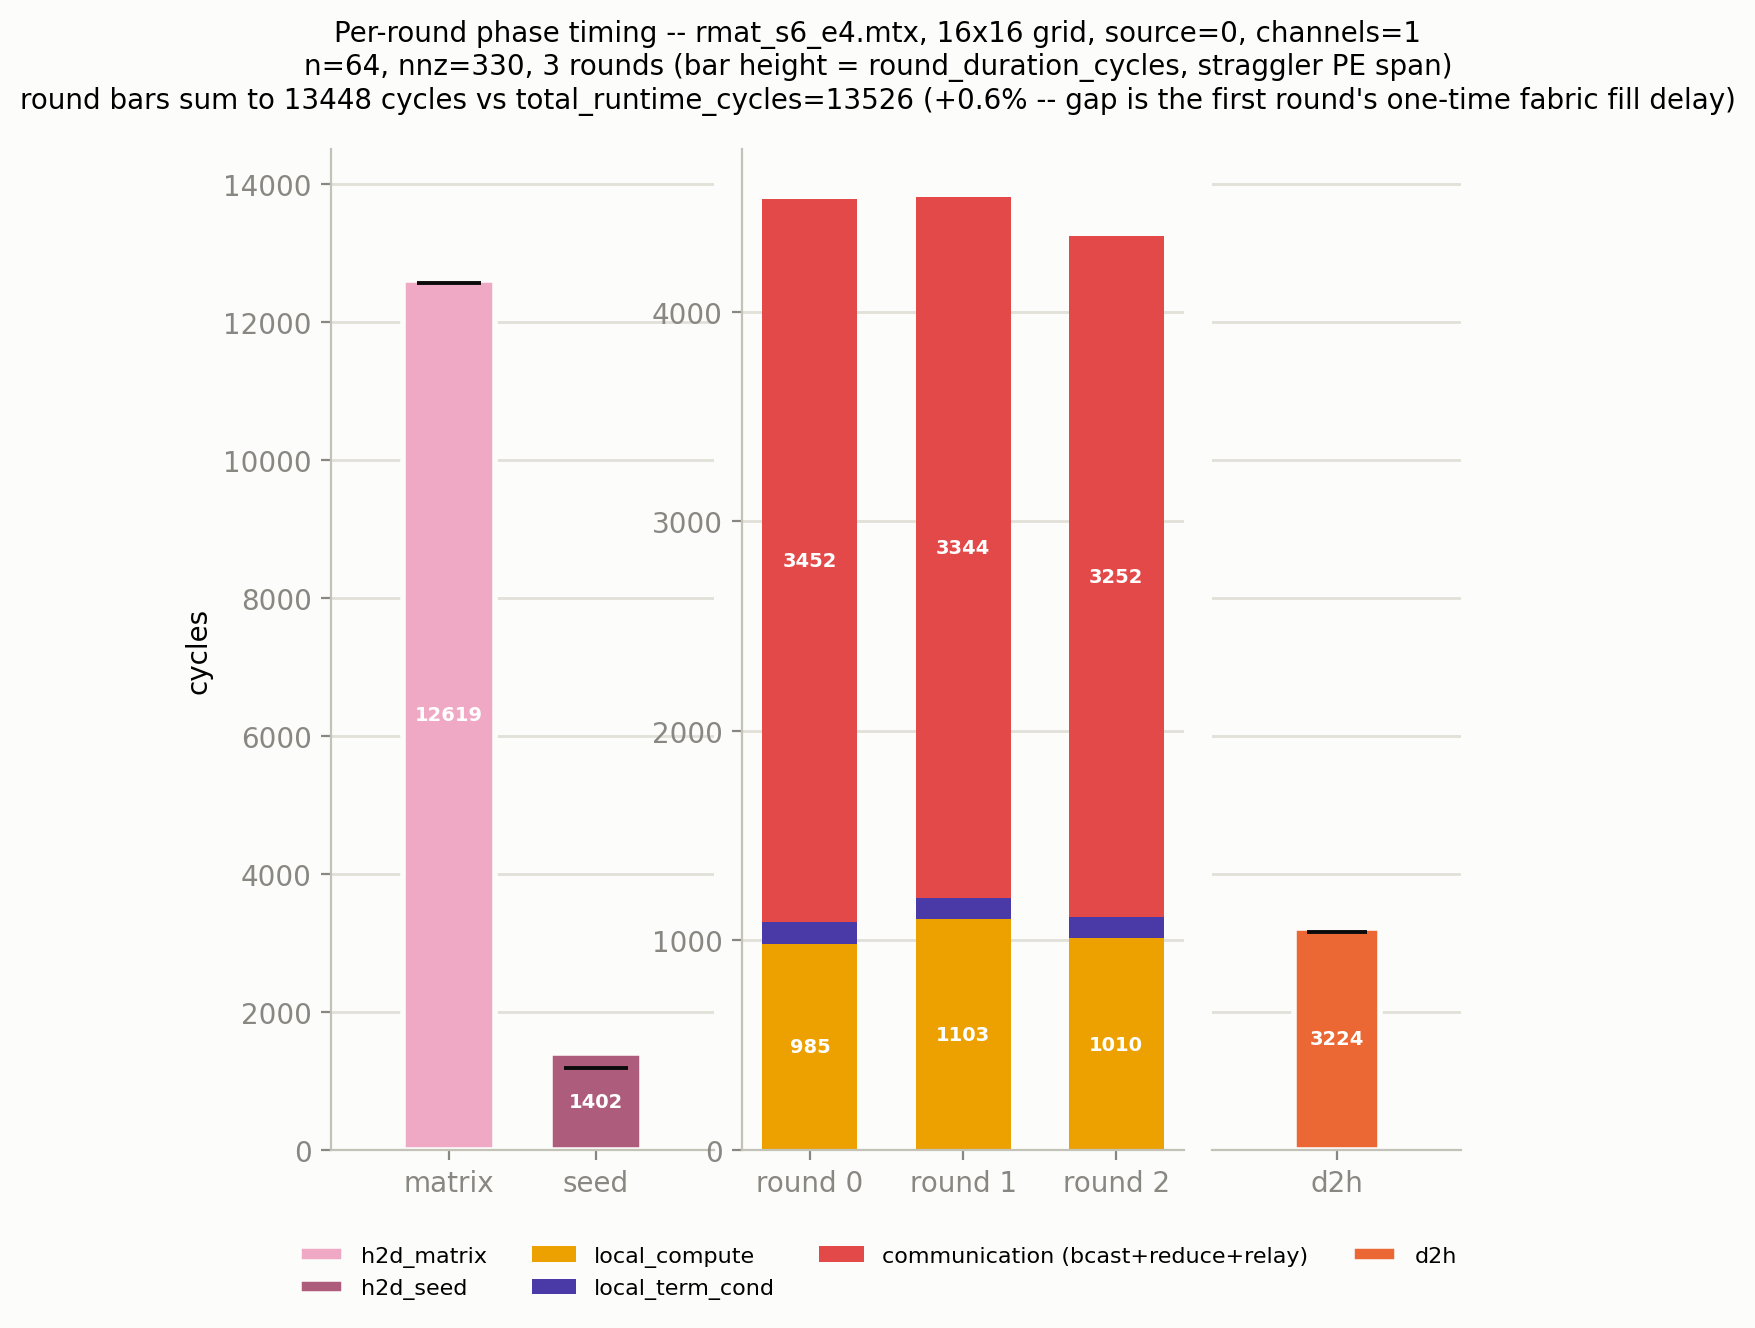
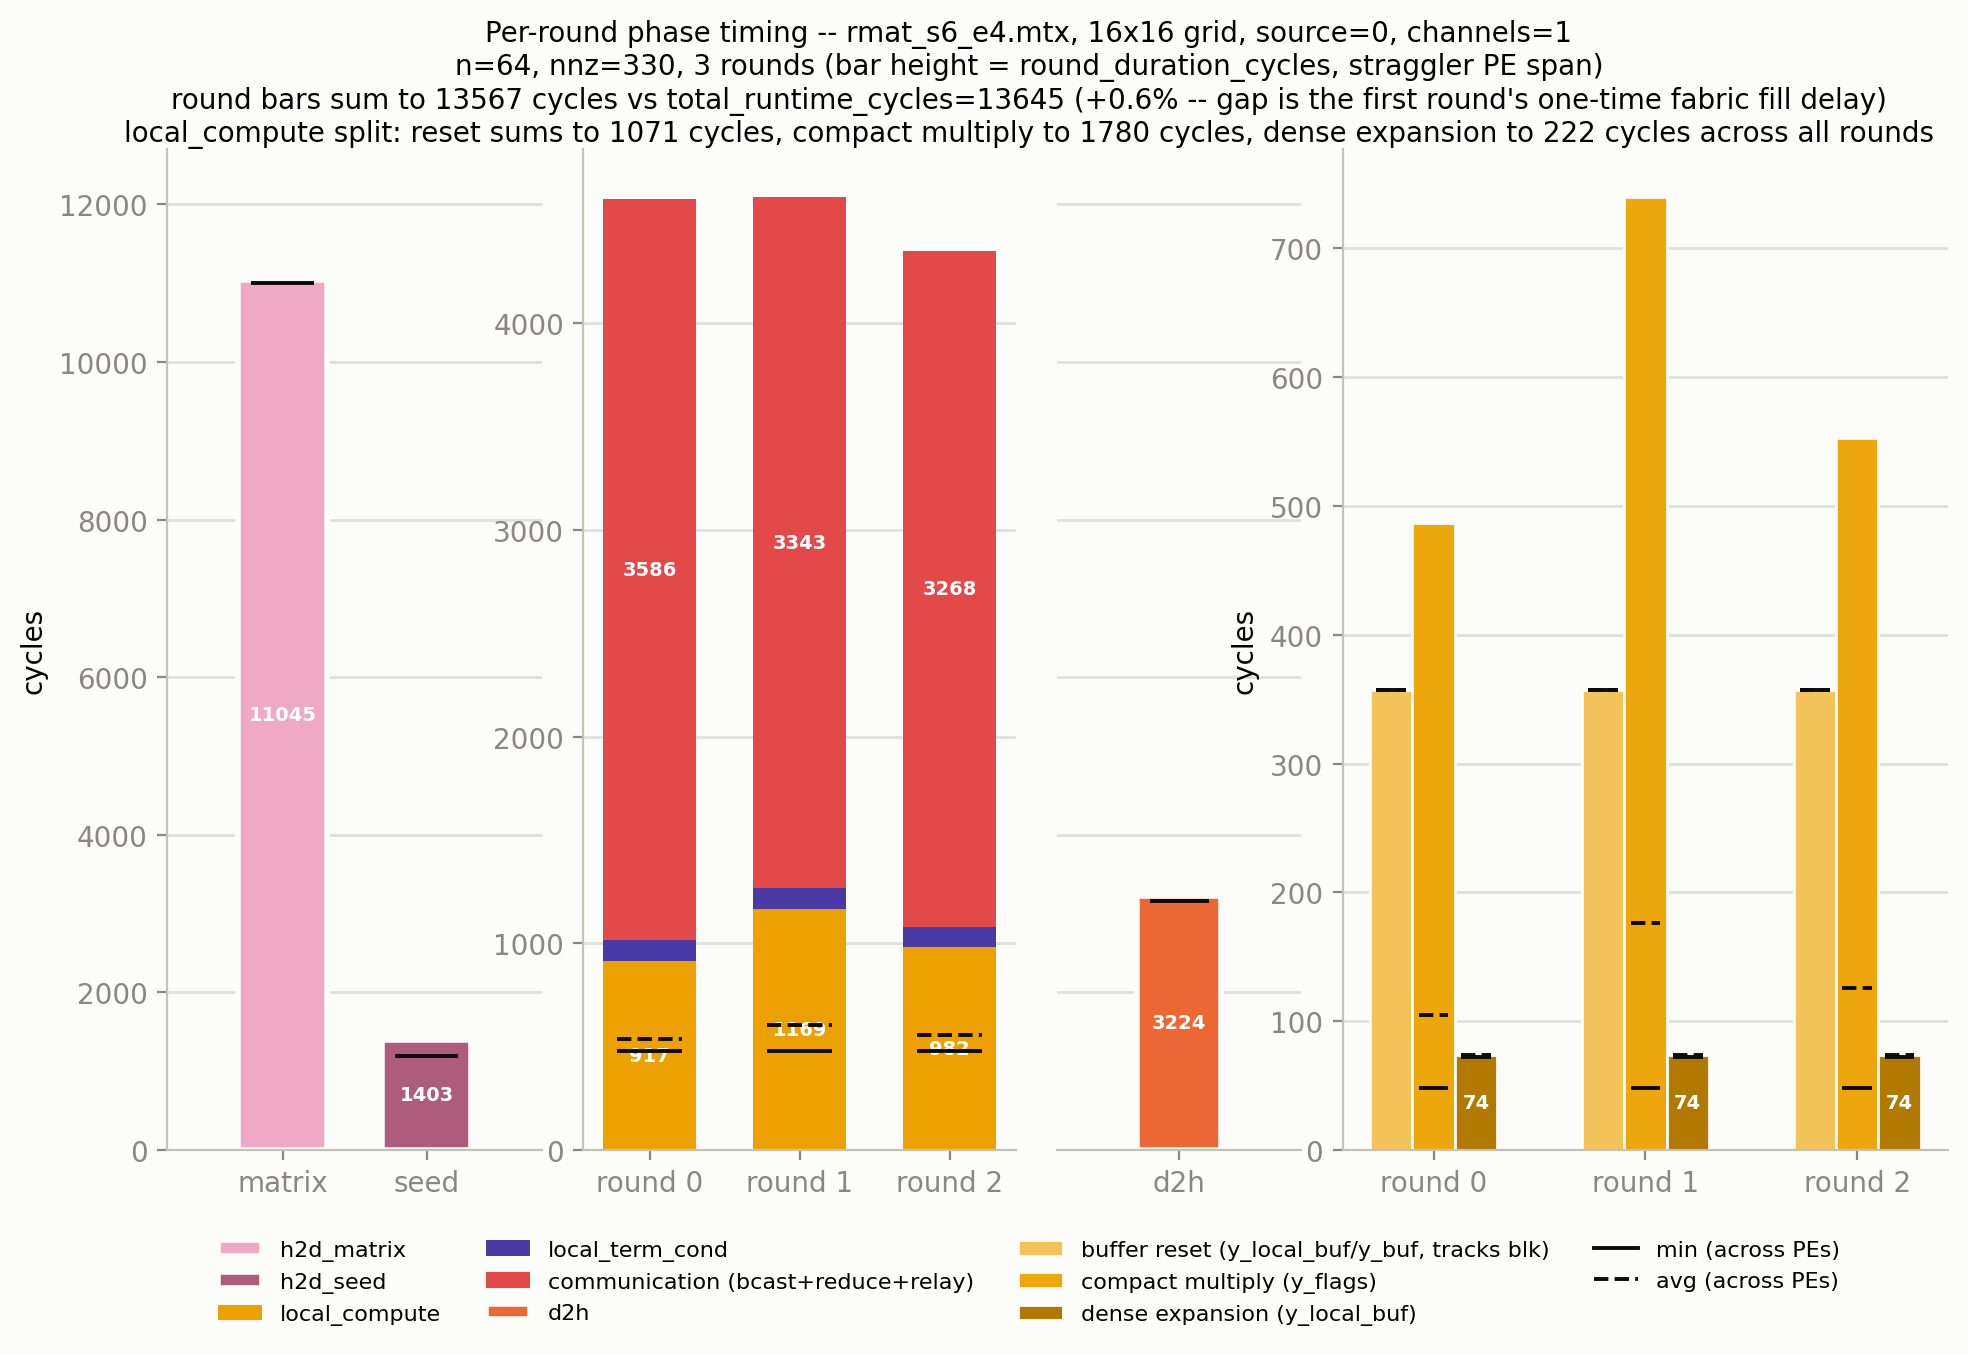
[add] y in bitmap format + DSD for reset

diff --git a/spmv-hypersparse/bool_diag_spmv/preprocess_bool.py b/spmv-hypersparse/bool_diag_spmv/preprocess_bool.py
@@ -9,7 +9,6 @@ import numpy as np
 #  local_nzcols     local_nnzcols
 #  local_nzrows     local_nnzrows
 #  local_nnz        local_nnz
-#  y_rows           y_rows_init_buf
 #  A_colloc         mat_col_loc_buf
 #  A_collen         mat_col_len_buf
 #  A_colidx         mat_col_idx_buf
@@ -39,11 +38,10 @@ def preprocess(
     local_nzrows: number of nonzero rows
     local_nzcols: number of nonzero columns
     local_nnz: number of nonzero elements
-    y_rows[local_nzrows]: nonzero row index
     A_colloc[local_nzcols]: prefix sum of A_collen, used to point to A_rows
     A_collen[local_nzcols]: A_collen[j] is number of nonzeros of j-th nonzero columns
     A_colidx[local_nzcols]: column index of nonzero columns
-    A_rows[local_nnz]: position of row index of nonzeros in y_rows
+    A_rows[local_nnz]: dense block-local row index of nonzeros (row_l)
 
     """
   assert csrRowPtr[0] == 0, "CSR must be base-0"
@@ -125,6 +123,13 @@ def preprocess(
       np.uint16).max), "LOCAL NUMBER OF NZCOLS WILL OVERFLOW, TRY USING A LARGER FABRIC"
   assert (max_local_nnz_rows < np.iinfo(
       np.uint16).max), "LOCAL NUMBER OF NZROWS WILL OVERFLOW, TRY USING A LARGER FABRIC"
+  # mat_rows_buf now stores direct dense row-block indices (row_l, see step
+  # 5 below) instead of a compact position, so the real bound on its values
+  # is `by` (the per-PE dense row-block size, i.e. the kernel's `blk`), not
+  # max_local_nnz_rows -- assert that explicitly (previously implicitly
+  # covered, since compact indices were always <= max_local_nnz_rows <= by).
+  assert (by < np.iinfo(
+      np.uint16).max), "PER-PE ROW BLOCK SIZE (by) WILL OVERFLOW, TRY USING A LARGER FABRIC"
   # no data overflows u16, we can convert the data to u16
   local_nnz = local_nnz.astype(np.uint16)
   local_nzrows = local_nzrows.astype(np.uint16)
@@ -136,7 +141,6 @@ def preprocess(
   # mat_col_loc_buf[max_local_nnz_cols]   A_colloc[local_nzcols]
   # mat_col_len_buf[max_local_nnz_cols]   A_collen[local_nzcols]
   # mat_col_idx_buf[max_local_nnz_cols]   A_colidx[local_nzcols]
-  # y_rows_init_buf[max_local_nnz_rows]   y_rows[local_nzrows]
   #
   # To prepare the data for spmv, each PE allocates the maximum dimension
   # max_local_nnz, max_local_nnz_cols or max_local_nnz_rows
@@ -144,35 +148,13 @@ def preprocess(
   A_colloc = np.zeros((faby, fabx, max_local_nnz_cols), dtype=np.uint16)
   A_collen = np.zeros((faby, fabx, max_local_nnz_cols), dtype=np.uint16)
   A_colidx = np.zeros((faby, fabx, max_local_nnz_cols), dtype=np.uint16)
-  y_rows = np.zeros((faby, fabx, max_local_nnz_rows), dtype=np.uint16)
 
-  # step 4: compute y_rows
-  local_pos = np.zeros((faby, fabx), dtype=np.int32)
-  counted[0:max_grid_dim] = -1  # invalid token
-  for row in range(nrows):
-    check_token = row
-    # row = row_b * by + row_l
-    row_b = int(row / by)
-    row_l = row - row_b * by
-    start = csrRowPtr[row]
-    end = csrRowPtr[row + 1]
-    for colidx in range(start, end):
-      col = csrColInd[colidx]
-      # col = col_b * bx + col_l
-      col_b = int(col / bx)
-      col_l = col - col_b * bx
-      # Suppose Aij is block (row_b, col_b)
-      # if |{Aij(row_l, j) != 0}| > 0, row_l is a nonzero row in Aij
-      # we use counted[col_b] to count only once
-      if counted[col_b] != check_token:
-        # Aij(row_l,col_l) is nonzero
-        pos = local_pos[(row_b, col_b)]
-        y_rows[(row_b, col_b, pos)] = row_l
-        local_pos[(row_b, col_b)] = pos + 1  # advance to next nonzero row in Aij
-        counted[col_b] = check_token
-
-  # step 5: compute A_colloc, A_colidx, A_colen and A_rows
-  #  y_rows is computed in step 4 because A_rows must be constructed by using y_rows
+  # step 4 (formerly step 5): compute A_colloc, A_colidx, A_colen and A_rows.
+  # A_rows now stores row_l directly (the dense block-local row index) --
+  # no compact "position in y_rows" indirection any more (the compact
+  # y_rows scheme this comment used to describe was dropped: the on-device
+  # kernel now keeps a dense per-PE bitmap over `by`/`blk` rows instead of a
+  # compact scratch array, so there is no compact index space to map into).
 
   # "local_pos" keeps track of the position of nonzero column in A_colidx
   local_pos = np.zeros((faby, fabx), dtype=np.int32)
@@ -225,10 +207,9 @@ def preprocess(
       pos_rel_rowidx = A_collen[(row_b, col_b, pos)]  # position of nonzero row index in A_rows
       # corresponding to Aij(:, col_l)
       pos_rowidx = pos_rel_rowidx + pos_start
-      # y_rows records distance(y_row.begin, find(y_rows.begin(), y_rows.end(), row_l))
-      # spmv uses y_rows to store the result of outer-product of A*x
-      y_rows_list = list(y_rows[(row_b, col_b)])
-      A_rows[(row_b, col_b, pos_rowidx)] = y_rows_list.index(row_l)
+      # A_rows stores row_l directly -- the kernel indexes its dense
+      # per-PE bitmap with this value, no compact lookup needed.
+      A_rows[(row_b, col_b, pos_rowidx)] = row_l
       A_collen[(row_b, col_b, pos)] = pos_rel_rowidx + 1  # move to next nonzero Aij(row_l, col_l)
 
   matrix_info = {}
@@ -242,7 +223,6 @@ def preprocess(
   matrix_info["mat_col_loc_buf"] = A_colloc
   matrix_info["mat_col_len_buf"] = A_collen
   matrix_info["mat_col_idx_buf"] = A_colidx
-  matrix_info["y_rows_init_buf"] = y_rows
   matrix_info["local_nnz"] = local_nnz
   matrix_info["local_nnz_cols"] = local_nzcols
   matrix_info["local_nnz_rows"] = local_nzrows

diff --git a/spmv-hypersparse/bool_diag_spmv/run_graph500.py b/spmv-hypersparse/bool_diag_spmv/run_graph500.py
@@ -10,7 +10,7 @@
 
   Kernel 1 / Kernel 2 split (GRAPH500_BENCHMARK.md section 1-2):
     - matrix structure (mat_rows_buf, mat_col_idx/loc/len_buf,
-      y_rows_init_buf, local_nnz*) is uploaded to the device exactly ONCE,
+      local_nnz*) is uploaded to the device exactly ONCE,
       timed separately as "construction" -- never part of any search's own
       time, same as Graph500's own Kernel 1.
     - each search re-uploads only x_buf (the new root's one-hot seed) and
@@ -210,7 +210,6 @@ def main():
   mat_col_idx_buf = matrix_info["mat_col_idx_buf"]
   mat_col_loc_buf = matrix_info["mat_col_loc_buf"]
   mat_col_len_buf = matrix_info["mat_col_len_buf"]
-  y_rows_init_buf = matrix_info["y_rows_init_buf"]
   local_nnz = matrix_info["local_nnz"]
   local_nnz_cols = matrix_info["local_nnz_cols"]
   local_nnz_rows = matrix_info["local_nnz_rows"]
@@ -260,7 +259,6 @@ def main():
   sym_mat_col_idx_buf = runner.get_id("mat_col_idx_buf")
   sym_mat_col_loc_buf = runner.get_id("mat_col_loc_buf")
   sym_mat_col_len_buf = runner.get_id("mat_col_len_buf")
-  sym_y_rows_init_buf = runner.get_id("y_rows_init_buf")
   sym_local_nnz = runner.get_id("local_nnz")
   sym_local_nnz_cols = runner.get_id("local_nnz_cols")
   sym_local_nnz_rows = runner.get_id("local_nnz_rows")
@@ -296,11 +294,6 @@ def main():
                                             np.uint32)
   runner.memcpy_h2d(sym_mat_col_len_buf, mat_col_len_buf_1d, 0, 0, width, height,
                      max_local_nnz_cols, streaming=False, data_type=MemcpyDataType.MEMCPY_16BIT,
-                     order=MemcpyOrder.COL_MAJOR, nonblock=True)
-  y_rows_init_buf_1d = hwl_to_oned_colmajor(height, width, max_local_nnz_rows, y_rows_init_buf,
-                                            np.uint32)
-  runner.memcpy_h2d(sym_y_rows_init_buf, y_rows_init_buf_1d, 0, 0, width, height,
-                     max_local_nnz_rows, streaming=False, data_type=MemcpyDataType.MEMCPY_16BIT,
                      order=MemcpyOrder.COL_MAJOR, nonblock=True)
   local_nnz_1d = hwl_to_oned_colmajor(height, width, 1, local_nnz, np.uint32)
   runner.memcpy_h2d(sym_local_nnz, local_nnz_1d, 0, 0, width, height, 1,

diff --git a/spmv-hypersparse/bool_diag_spmv/run_bfs.py b/spmv-hypersparse/bool_diag_spmv/run_bfs.py
@@ -207,7 +207,6 @@ def main():
   mat_col_idx_buf = matrix_info["mat_col_idx_buf"]
   mat_col_loc_buf = matrix_info["mat_col_loc_buf"]
   mat_col_len_buf = matrix_info["mat_col_len_buf"]
-  y_rows_init_buf = matrix_info["y_rows_init_buf"]
   local_nnz = matrix_info["local_nnz"]
   local_nnz_cols = matrix_info["local_nnz_cols"]
   local_nnz_rows = matrix_info["local_nnz_rows"]
@@ -265,7 +264,6 @@ def main():
   sym_mat_col_idx_buf = runner.get_id("mat_col_idx_buf")
   sym_mat_col_loc_buf = runner.get_id("mat_col_loc_buf")
   sym_mat_col_len_buf = runner.get_id("mat_col_len_buf")
-  sym_y_rows_init_buf = runner.get_id("y_rows_init_buf")
   sym_local_nnz = runner.get_id("local_nnz")
   sym_local_nnz_cols = runner.get_id("local_nnz_cols")
   sym_local_nnz_rows = runner.get_id("local_nnz_rows")
@@ -301,11 +299,6 @@ def main():
                                             np.uint32)
   runner.memcpy_h2d(sym_mat_col_len_buf, mat_col_len_buf_1d, 0, 0, width, height,
                      max_local_nnz_cols, streaming=False, data_type=MemcpyDataType.MEMCPY_16BIT,
-                     order=MemcpyOrder.COL_MAJOR, nonblock=True)
-  y_rows_init_buf_1d = hwl_to_oned_colmajor(height, width, max_local_nnz_rows, y_rows_init_buf,
-                                            np.uint32)
-  runner.memcpy_h2d(sym_y_rows_init_buf, y_rows_init_buf_1d, 0, 0, width, height,
-                     max_local_nnz_rows, streaming=False, data_type=MemcpyDataType.MEMCPY_16BIT,
                      order=MemcpyOrder.COL_MAJOR, nonblock=True)
   local_nnz_1d = hwl_to_oned_colmajor(height, width, 1, local_nnz, np.uint32)
   runner.memcpy_h2d(sym_local_nnz, local_nnz_1d, 0, 0, width, height, 1,

diff --git a/spmv-hypersparse/bool_diag_spmv/run_host_driven_bfs.py b/spmv-hypersparse/bool_diag_spmv/run_host_driven_bfs.py
@@ -200,7 +200,6 @@ def main():
   mat_col_idx_buf = matrix_info["mat_col_idx_buf"]
   mat_col_loc_buf = matrix_info["mat_col_loc_buf"]
   mat_col_len_buf = matrix_info["mat_col_len_buf"]
-  y_rows_init_buf = matrix_info["y_rows_init_buf"]
   local_nnz = matrix_info["local_nnz"]
   local_nnz_cols = matrix_info["local_nnz_cols"]
   local_nnz_rows = matrix_info["local_nnz_rows"]
@@ -282,7 +281,6 @@ def main():
   sym_mat_col_idx_buf = runner.get_id("mat_col_idx_buf")
   sym_mat_col_loc_buf = runner.get_id("mat_col_loc_buf")
   sym_mat_col_len_buf = runner.get_id("mat_col_len_buf")
-  sym_y_rows_init_buf = runner.get_id("y_rows_init_buf")
   sym_local_nnz = runner.get_id("local_nnz")
   sym_local_nnz_cols = runner.get_id("local_nnz_cols")
   sym_local_nnz_rows = runner.get_id("local_nnz_rows")
@@ -317,12 +315,6 @@ def main():
                                             np.uint32)
   runner.memcpy_h2d(sym_mat_col_len_buf, mat_col_len_buf_1d, 0, 0, width, height,
                      max_local_nnz_cols, streaming=False, data_type=MemcpyDataType.MEMCPY_16BIT,
-                     order=MemcpyOrder.COL_MAJOR, nonblock=True)
-
-  y_rows_init_buf_1d = hwl_to_oned_colmajor(height, width, max_local_nnz_rows, y_rows_init_buf,
-                                            np.uint32)
-  runner.memcpy_h2d(sym_y_rows_init_buf, y_rows_init_buf_1d, 0, 0, width, height,
-                     max_local_nnz_rows, streaming=False, data_type=MemcpyDataType.MEMCPY_16BIT,
                      order=MemcpyOrder.COL_MAJOR, nonblock=True)
 
   local_nnz_1d = hwl_to_oned_colmajor(height, width, 1, local_nnz, np.uint32)

diff --git a/spmv-hypersparse/bool_diag_spmv/run_single_spmv.py b/spmv-hypersparse/bool_diag_spmv/run_single_spmv.py
@@ -130,7 +130,6 @@ def main():
   mat_col_idx_buf = matrix_info["mat_col_idx_buf"]
   mat_col_loc_buf = matrix_info["mat_col_loc_buf"]
   mat_col_len_buf = matrix_info["mat_col_len_buf"]
-  y_rows_init_buf = matrix_info["y_rows_init_buf"]
   local_nnz = matrix_info["local_nnz"]
   local_nnz_cols = matrix_info["local_nnz_cols"]
   local_nnz_rows = matrix_info["local_nnz_rows"]
@@ -213,7 +212,6 @@ def main():
   sym_mat_col_idx_buf = runner.get_id("mat_col_idx_buf")
   sym_mat_col_loc_buf = runner.get_id("mat_col_loc_buf")
   sym_mat_col_len_buf = runner.get_id("mat_col_len_buf")
-  sym_y_rows_init_buf = runner.get_id("y_rows_init_buf")
   sym_local_nnz = runner.get_id("local_nnz")
   sym_local_nnz_cols = runner.get_id("local_nnz_cols")
   sym_local_nnz_rows = runner.get_id("local_nnz_rows")
@@ -249,12 +247,6 @@ def main():
                                             np.uint32)
   runner.memcpy_h2d(sym_mat_col_len_buf, mat_col_len_buf_1d, 0, 0, width, height,
                      max_local_nnz_cols, streaming=False, data_type=MemcpyDataType.MEMCPY_16BIT,
-                     order=MemcpyOrder.COL_MAJOR, nonblock=True)
-
-  y_rows_init_buf_1d = hwl_to_oned_colmajor(height, width, max_local_nnz_rows, y_rows_init_buf,
-                                            np.uint32)
-  runner.memcpy_h2d(sym_y_rows_init_buf, y_rows_init_buf_1d, 0, 0, width, height,
-                     max_local_nnz_rows, streaming=False, data_type=MemcpyDataType.MEMCPY_16BIT,
                      order=MemcpyOrder.COL_MAJOR, nonblock=True)
 
   local_nnz_1d = hwl_to_oned_colmajor(height, width, 1, local_nnz, np.uint32)
